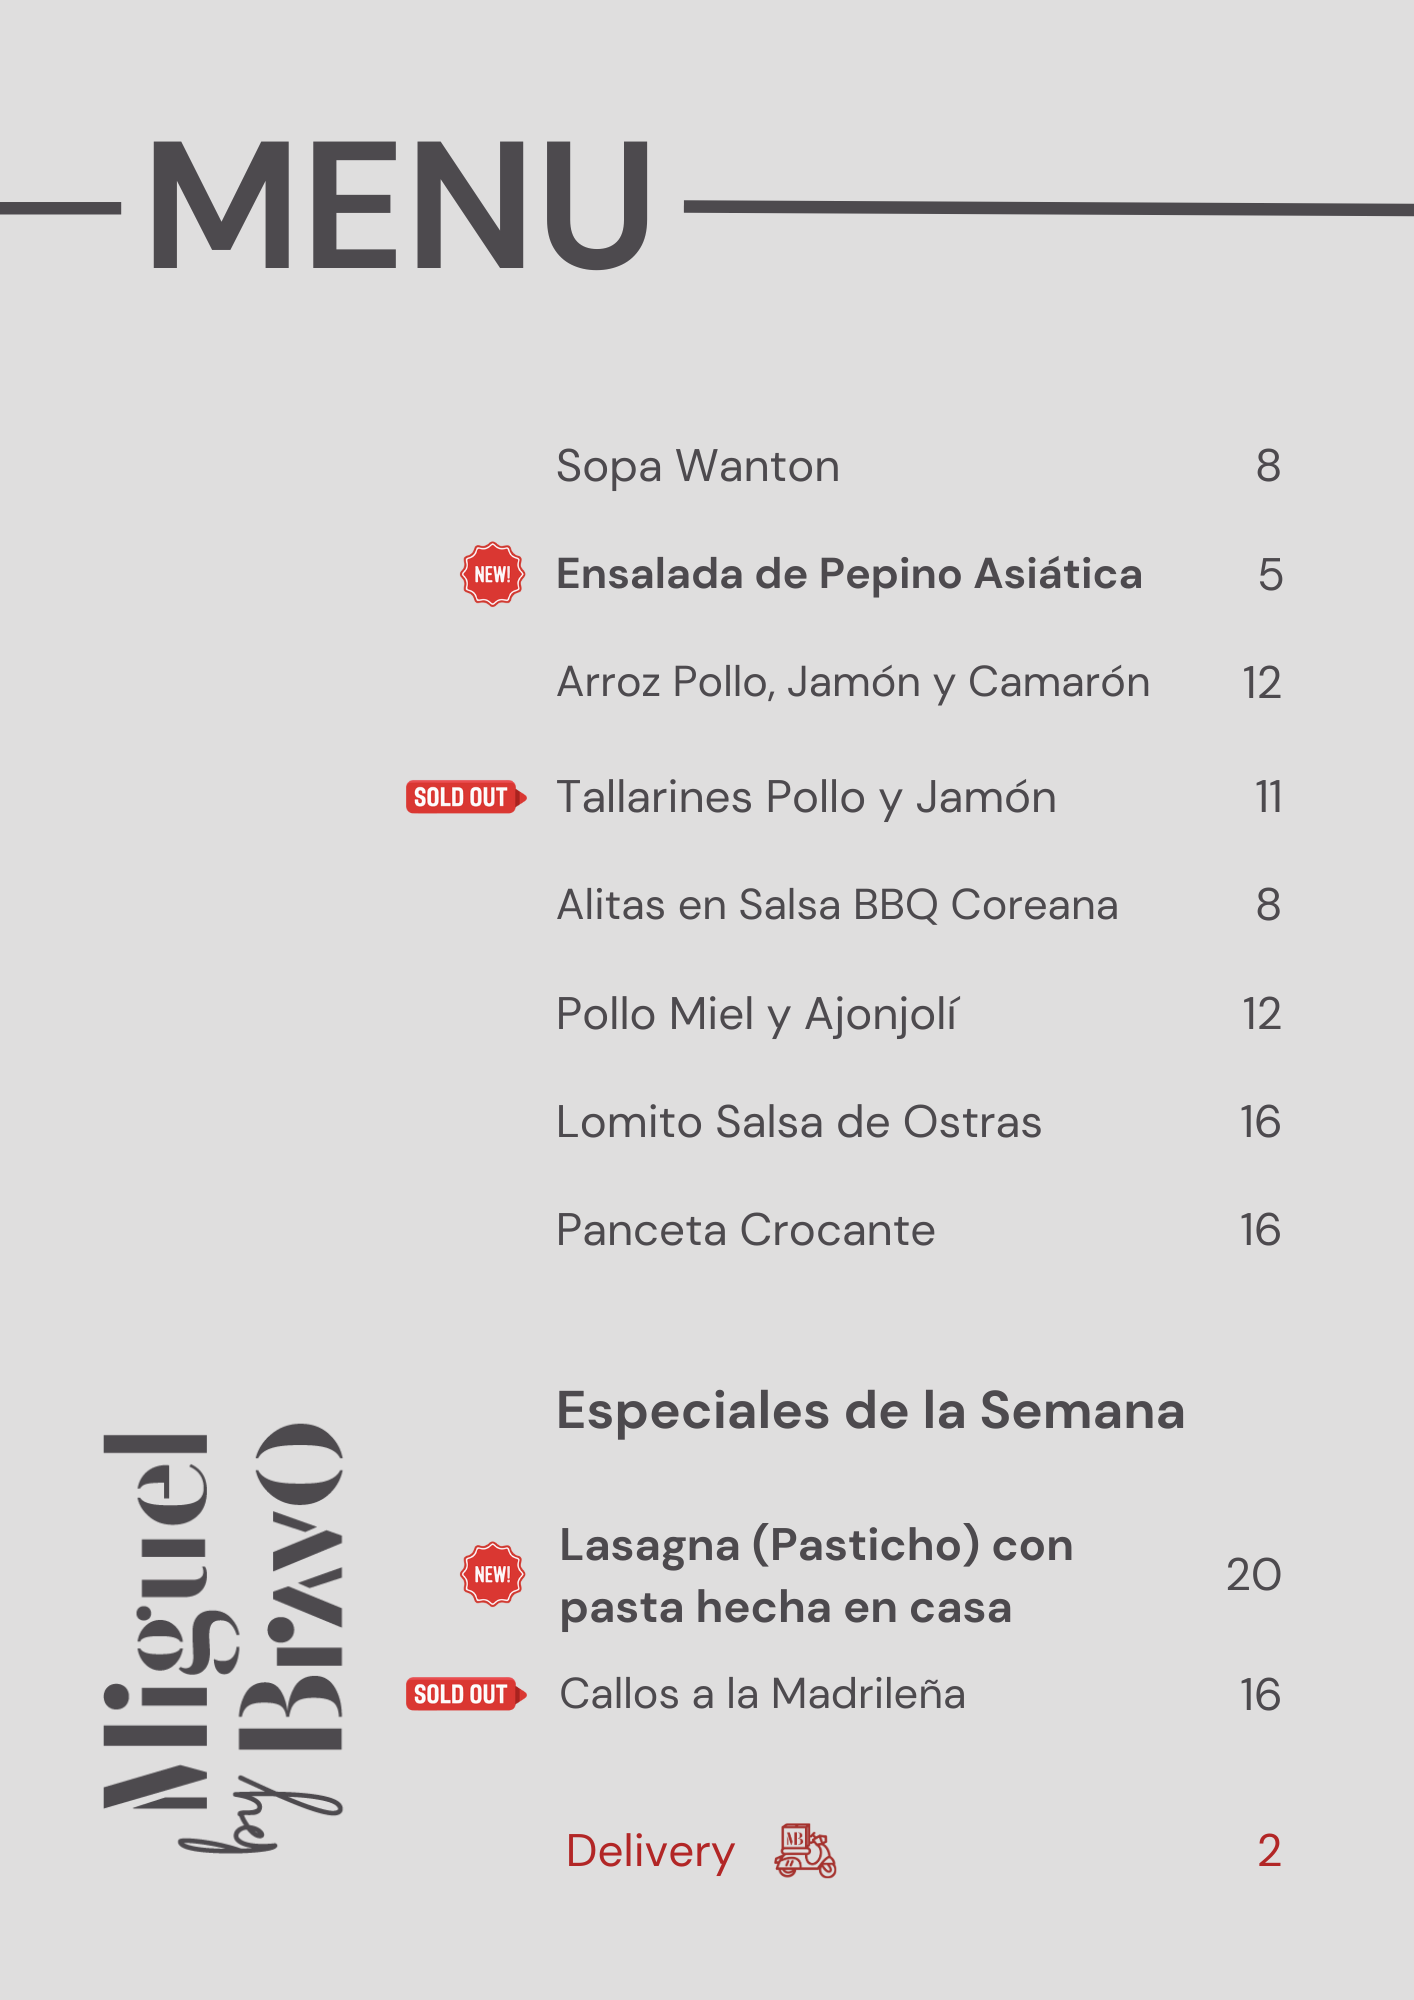
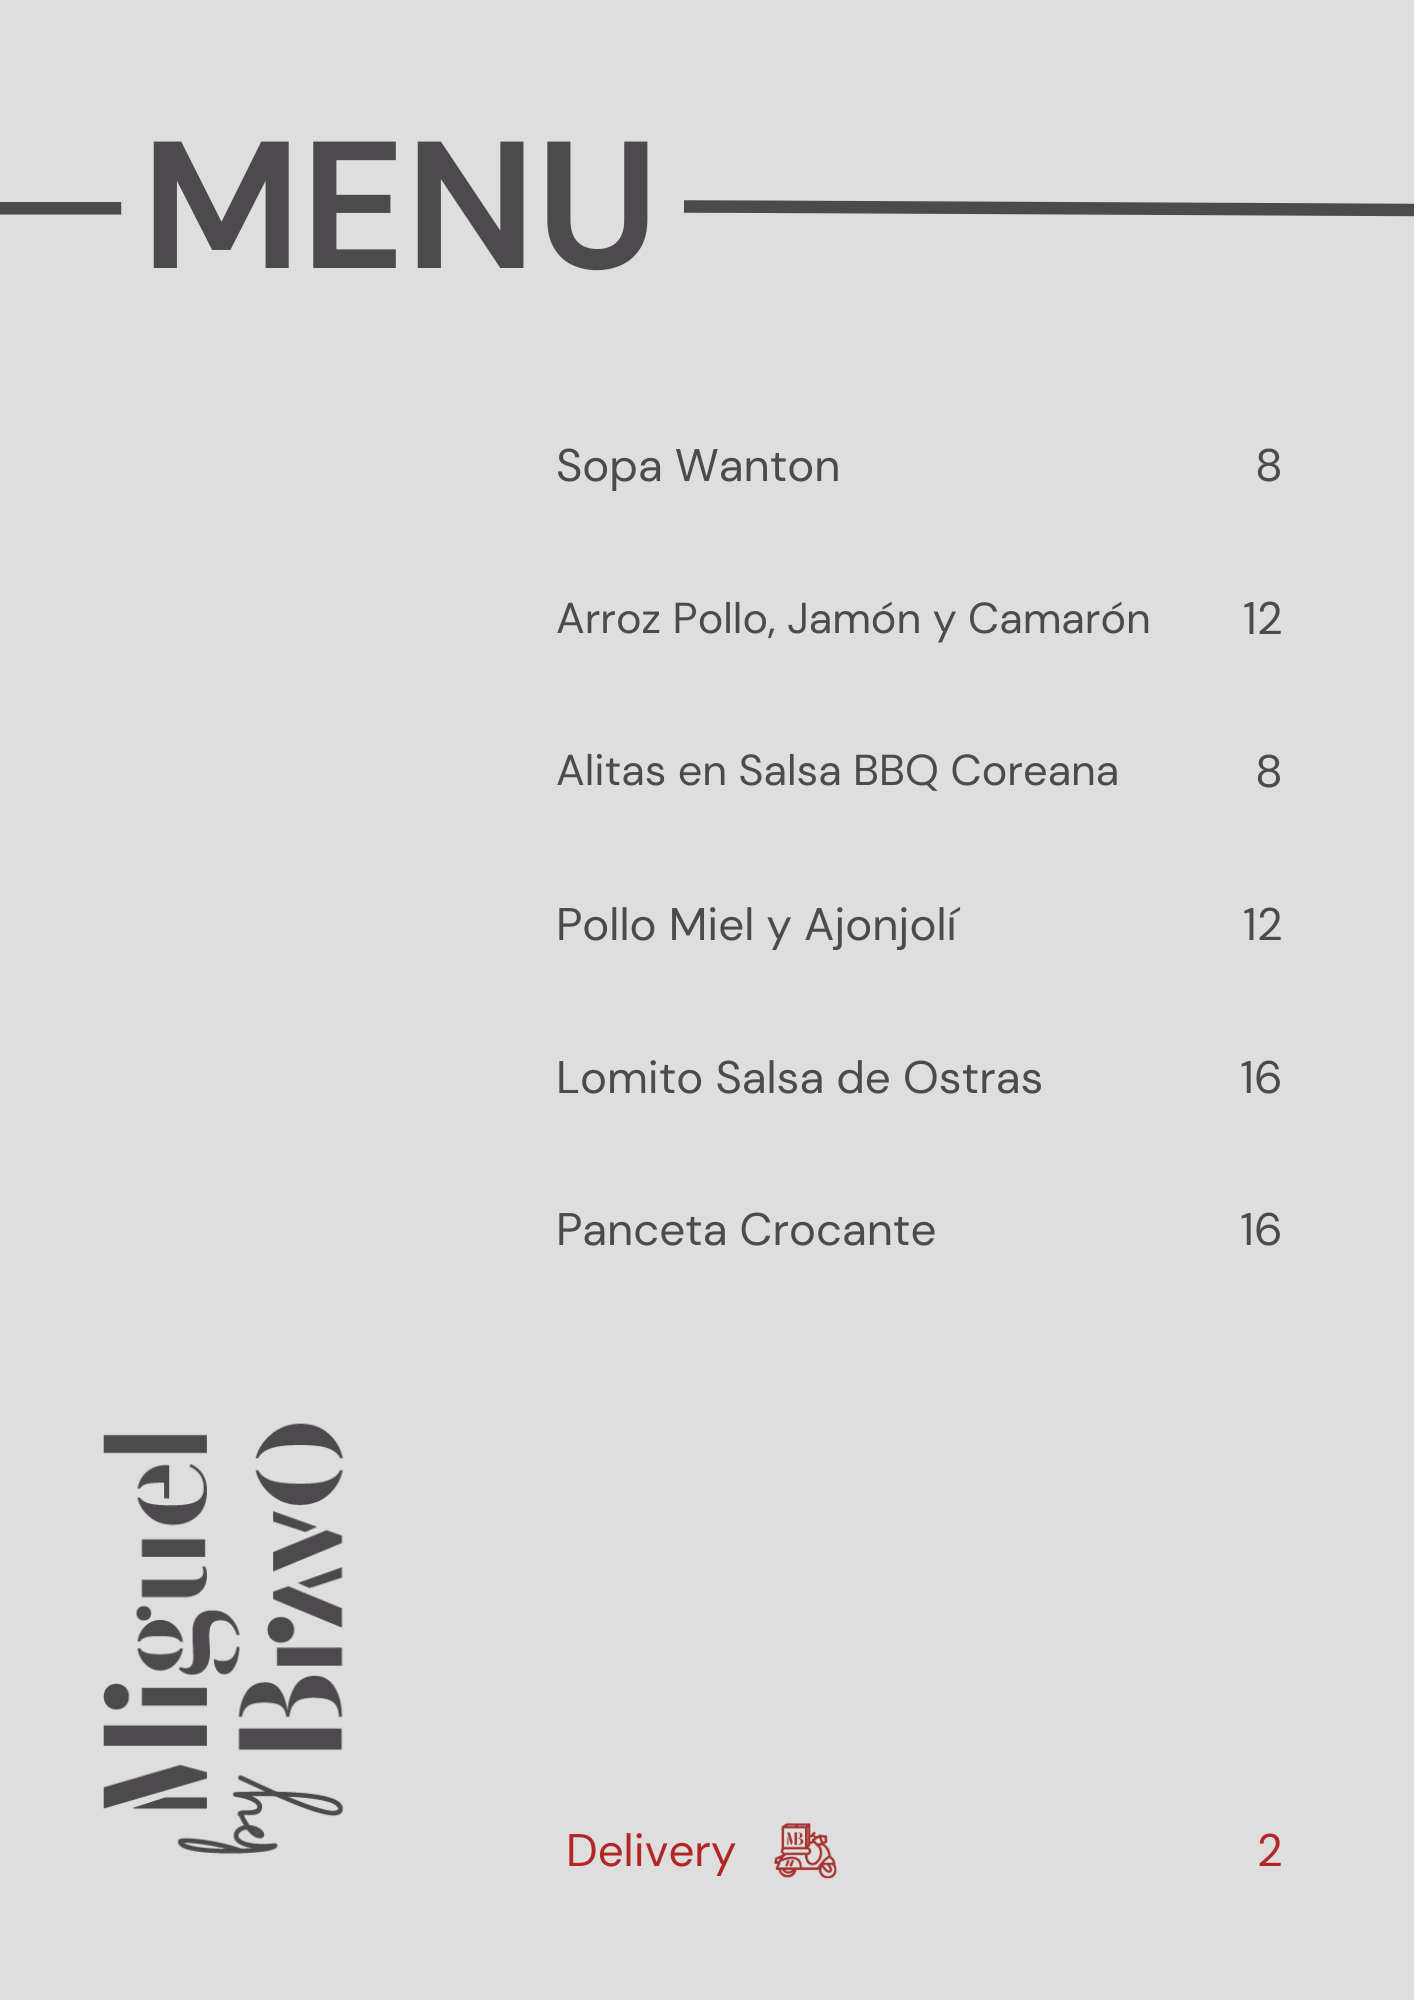
last weeks menu

diff --git a/index.html b/index.html
@@ -13,8 +13,6 @@
 <body>
   <ul>
     <li><img src="images/menu.png" style="width: 100%;"></li>
-    <li><img src="images/especial.png" style="width: 100%;"></li>
-    <li><img src="images/especial2.png" style="width: 100%;"></li>
     <li><img src="images/menu2.png" style="width: 100%;"></li>
     <li><img src="images/menu3.png" style="width: 100%;"></li>
     <li><img src="images/menu4.png" style="width: 100%;"></li>
